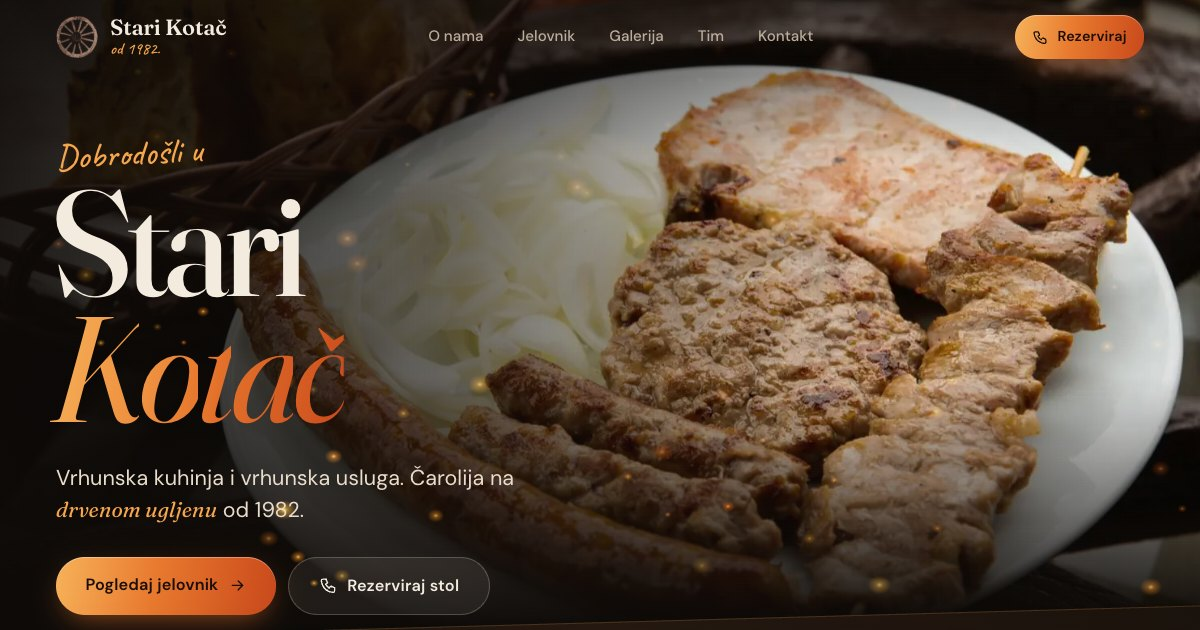
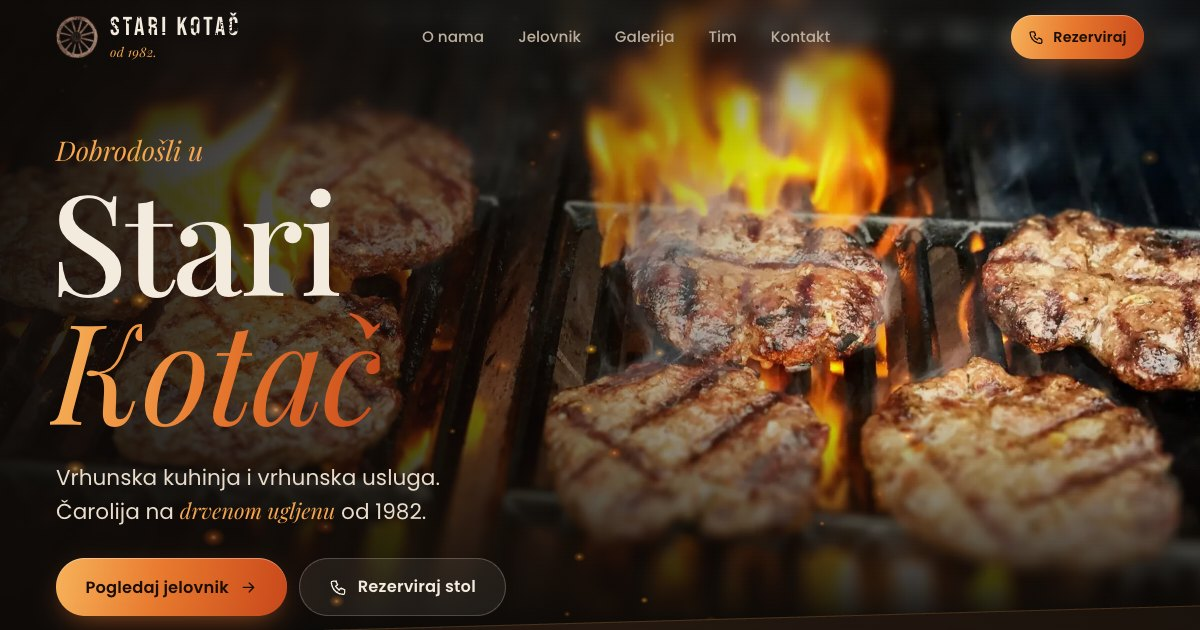
Nova pozadina uvoda (roštilj s plamenom) i fontovi kao na službenoj stranici

diff --git a/css/style.css b/css/style.css
@@ -24,9 +24,10 @@
 
   --grad-ember: linear-gradient(100deg, #f7b25a 0%, #e8792e 45%, #c9481b 100%);
 
-  --ff-display: "Fraunces", Georgia, "Times New Roman", serif;
-  --ff-body: "DM Sans", system-ui, -apple-system, "Segoe UI", sans-serif;
-  --ff-hand: "Caveat", "Segoe Script", cursive;
+  --ff-display: "Playfair Display", Georgia, "Times New Roman", serif;
+  --ff-body: "Poppins", system-ui, -apple-system, "Segoe UI", sans-serif;
+  --ff-hand: "Playfair Display", Georgia, serif;
+  --ff-logo: "Bebas Neue", "Oswald", Impact, sans-serif;
 
   --ease: cubic-bezier(.22, .61, .36, 1);
   --ease-out: cubic-bezier(.16, 1, .3, 1);
@@ -57,8 +58,8 @@ body {
   background: var(--bg);
   color: var(--text);
   font-family: var(--ff-body);
-  font-size: 17px;
-  line-height: 1.65;
+  font-size: 16px;
+  line-height: 1.7;
   -webkit-font-smoothing: antialiased;
   -moz-osx-font-smoothing: grayscale;
   text-rendering: optimizeLegibility;
@@ -83,6 +84,14 @@ em { font-style: italic; }
 }
 
 .container { width: min(100% - 2 * var(--gutter), var(--maxw)); margin-inline: auto; }
+
+/* Logo u stilu natpisa Starog Kotača: uska velika slova s istrošenom teksturom */
+.logo-type {
+  font-family: var(--ff-logo); font-weight: 400; text-transform: uppercase;
+  -webkit-mask-image: url("../img/grunge.png"); mask-image: url("../img/grunge.png");
+  -webkit-mask-size: 180px; mask-size: 180px;
+  padding-top: .16em; margin-top: -.16em;
+}
 .section { padding-block: var(--section); position: relative; }
 .section--tight { padding-block: clamp(20px, 4vw, 48px); }
 .section > .container { position: relative; z-index: 1; }
@@ -91,9 +100,9 @@ em { font-style: italic; }
 .h2 {
   font-family: var(--ff-display);
   font-weight: 500;
-  font-size: clamp(2.35rem, 6.4vw, 4.6rem);
-  line-height: 1.02;
-  letter-spacing: -.025em;
+  font-size: clamp(2.3rem, 6.2vw, 4.4rem);
+  line-height: 1.08;
+  letter-spacing: -.01em;
   font-variation-settings: "opsz" 144;
   text-wrap: balance;
 }
@@ -108,8 +117,8 @@ em { font-style: italic; }
   font-family: var(--ff-display);
   font-weight: 500;
   font-size: clamp(1.9rem, 4.2vw, 2.9rem);
-  line-height: 1.05;
-  letter-spacing: -.02em;
+  line-height: 1.1;
+  letter-spacing: -.01em;
   font-variation-settings: "opsz" 144;
 }
 .eyebrow {
@@ -238,11 +247,12 @@ em { font-style: italic; }
   filter: drop-shadow(0 0 24px rgba(228, 113, 43, .35));
 }
 .loader__name {
-  font-family: var(--ff-display); font-size: 1.9rem; font-weight: 500; letter-spacing: -.01em;
+  font-family: var(--ff-logo); font-size: 2.6rem; letter-spacing: .14em; line-height: 1; padding: .18em 0 0 .14em;
+  -webkit-mask-image: url("../img/grunge.png"); mask-image: url("../img/grunge.png"); -webkit-mask-size: 180px; mask-size: 180px;
   opacity: 0; animation: fadeUp .8s .15s var(--ease-out) forwards;
 }
 .loader__since {
-  font-family: var(--ff-hand); font-size: 1.45rem; color: var(--ember-2);
+  font-family: var(--ff-hand); font-style: italic; font-size: 1.1rem; color: var(--ember-2); margin-top: 6px;
   opacity: 0; animation: fadeUp .8s .3s var(--ease-out) forwards;
 }
 .is-loaded .loader {
@@ -292,8 +302,8 @@ em { font-style: italic; }
 .brand__wheel { width: 42px; height: 42px; flex: none; display: block; }
 .brand__wheel img { width: 100%; height: 100%; }
 .brand__text { display: flex; flex-direction: column; line-height: 1; }
-.brand__name { font-family: var(--ff-display); font-size: 1.38rem; font-weight: 600; letter-spacing: -.01em; }
-.brand__sub { font-family: var(--ff-hand); font-size: 1.05rem; color: var(--ember-2); margin-top: 3px; }
+.brand__name { font-size: 1.62rem; letter-spacing: .12em; line-height: 1; }
+.brand__sub { font-family: var(--ff-hand); font-style: italic; font-size: .82rem; color: var(--ember-2); margin-top: 4px; letter-spacing: .02em; }
 
 .nav { display: none; gap: 6px; }
 .nav a {
@@ -425,17 +435,16 @@ em { font-style: italic; }
 .hero__content { position: relative; padding-bottom: 28px; will-change: transform, opacity; }
 .hero__status { margin-bottom: 26px; }
 .hero__eyebrow {
-  font-family: var(--ff-hand); font-size: clamp(1.6rem, 5vw, 2.2rem); line-height: 1;
+  font-family: var(--ff-hand); font-style: italic; font-size: clamp(1.25rem, 3.6vw, 1.7rem); line-height: 1;
   color: var(--ember-2);
-  margin-bottom: .1em;
-  transform: rotate(-3deg); transform-origin: left;
+  margin-bottom: .35em;
 }
 .hero__title {
   font-family: var(--ff-display);
   font-weight: 500;
-  font-size: clamp(5.4rem, 26vw, 12.5rem);
-  line-height: .84;
-  letter-spacing: -.045em;
+  font-size: clamp(5rem, 24vw, 12rem);
+  line-height: .92;
+  letter-spacing: -.02em;
   font-variation-settings: "opsz" 144;
   margin-left: -.04em;
 }
@@ -510,7 +519,7 @@ em { font-style: italic; }
 @keyframes scrollDot { 0% { opacity: 0; transform: translateY(0); } 30% { opacity: 1; } 80% { opacity: 0; transform: translateY(14px); } 100% { opacity: 0; } }
 
 @media (min-width: 701px) {
-  .hero__media img { object-position: 62% 50%; }
+  .hero__media img { object-position: 50% 50%; }
   .hero__shade {
     background:
       linear-gradient(90deg, rgba(13, 10, 8, .92) 0%, rgba(13, 10, 8, .6) 38%, rgba(13, 10, 8, .05) 70%),
@@ -524,7 +533,7 @@ em { font-style: italic; }
   .hero__scroll span { display: inline; }
 }
 @media (min-width: 1100px) {
-  .hero__title { font-size: clamp(8rem, 13.5vw, 13rem); }
+  .hero__title { font-size: clamp(8rem, 12.5vw, 12rem); }
   .hero__lead { max-width: 34ch; }
 }
 
@@ -627,10 +636,9 @@ em { font-style: italic; }
 .story__text > p.lead { color: var(--text); margin-top: 1.8rem; }
 .story__text .h2 { max-width: 12ch; }
 .signature {
-  font-family: var(--ff-hand); font-size: 1.9rem !important; line-height: 1.2;
+  font-family: var(--ff-hand); font-style: italic; font-size: 1.4rem !important; line-height: 1.3;
   color: var(--ember-2) !important;
   margin-top: 1.6rem !important;
-  transform: rotate(-2deg); transform-origin: left;
 }
 .story__text .link-arrow { margin-top: 1.8rem; }
 
@@ -648,7 +656,7 @@ em { font-style: italic; }
 .stats strong {
   font-family: var(--ff-display); font-weight: 500;
   font-size: clamp(2.6rem, 7vw, 4.4rem); line-height: 1; letter-spacing: -.03em;
-  font-variant-numeric: tabular-nums;
+  font-variant-numeric: lining-nums tabular-nums;
   background: var(--grad-ember); -webkit-background-clip: text; background-clip: text; color: transparent;
 }
 .stats li > span { color: var(--muted); font-size: .92rem; line-height: 1.4; }
@@ -859,7 +867,7 @@ em { font-style: italic; }
 
 .menu__panel { padding-top: 26px; }
 .menu__panel-sub {
-  font-family: var(--ff-hand); font-size: 1.6rem; color: var(--rust); line-height: 1;
+  font-family: var(--ff-hand); font-style: italic; font-size: 1.2rem; color: var(--rust); line-height: 1.2;
   padding: 0 6px 10px;
 }
 .menu__list { display: grid; }
@@ -885,7 +893,7 @@ em { font-style: italic; }
 .dish__dots { flex: 1; min-width: 14px; border-bottom: 2px dotted rgba(106, 72, 44, .35); transform: translateY(-5px); }
 .dish__price {
   font-family: var(--ff-display); font-weight: 600; font-size: 1.14rem; white-space: nowrap;
-  color: var(--rust); font-variant-numeric: tabular-nums;
+  color: var(--rust); font-variant-numeric: lining-nums tabular-nums;
 }
 .dish__desc { color: var(--ink-2); font-size: .88rem; line-height: 1.4; margin-top: 3px; }
 .menu__badge {
@@ -1227,8 +1235,8 @@ em { font-style: italic; }
 }
 .map__card img { width: 40px; height: 40px; }
 .map__card p { flex: 1; line-height: 1.3; min-width: 0; }
-.map__card strong { display: block; font-family: var(--ff-display); font-size: 1.15rem; font-weight: 600; }
-.map__card span { font-size: .85rem; color: var(--muted); }
+.map__card strong { display: block; font-size: 1.4rem; letter-spacing: .1em; line-height: 1.1; }
+.map__card p span { font-size: .85rem; color: var(--muted); }
 
 @media (min-width: 700px) {
   .form__row { grid-template-columns: 1fr 1fr; }
@@ -1257,13 +1265,12 @@ em { font-style: italic; }
 .footer__em { font-family: var(--ff-display); font-size: 1.5rem; color: var(--text); }
 .footer__word {
   margin-top: clamp(50px, 8vw, 100px);
-  font-family: var(--ff-display); font-weight: 500; font-style: italic;
-  font-size: clamp(3rem, 16.5vw, 14rem); line-height: .95; letter-spacing: -.05em;
+  font-family: var(--ff-logo); font-weight: 400;
+  font-size: clamp(3.4rem, 19vw, 15rem); line-height: 1.05; letter-spacing: .06em; padding-top: .12em;
   white-space: nowrap; text-align: center;
-  color: transparent;
-  -webkit-text-stroke: 1px rgba(246, 166, 77, .32);
-  background: linear-gradient(180deg, rgba(246, 166, 77, .18), transparent 80%);
-  -webkit-background-clip: text; background-clip: text;
+  color: rgba(246, 166, 77, .16);
+  -webkit-mask-image: url("../img/grunge.png"); mask-image: url("../img/grunge.png");
+  -webkit-mask-size: 420px; mask-size: 420px;
   user-select: none;
 }
 .footer__eu {

diff --git a/index.html b/index.html
@@ -24,7 +24,7 @@
 
   <link rel="preconnect" href="https://fonts.googleapis.com">
   <link rel="preconnect" href="https://fonts.gstatic.com" crossorigin>
-  <link href="https://fonts.googleapis.com/css2?family=Caveat:wght@500;700&family=DM+Sans:opsz,wght@9..40,400..700&family=Fraunces:ital,opsz,wght@0,9..144,300..700;1,9..144,300..700&display=swap" rel="stylesheet">
+  <link href="https://fonts.googleapis.com/css2?family=Bebas+Neue&family=Playfair+Display:ital,wght@0,400..800;1,400..700&family=Poppins:wght@400;500;600;700&display=swap" rel="stylesheet">
   <link rel="preload" as="image" href="img/hero-m.webp" type="image/webp" media="(max-width: 700px)">
   <link rel="preload" as="image" href="img/hero.webp" type="image/webp" media="(min-width: 701px)">
   <link rel="stylesheet" href="css/style.css">
@@ -106,7 +106,7 @@
     <div class="header__inner">
       <a href="#pocetna" class="brand" aria-label="Stari Kotač — početna">
         <span class="brand__wheel" data-spin="0.25"><img src="img/kotac-sm.webp" alt="" width="160" height="159"></span>
-        <span class="brand__text"><span class="brand__name">Stari Kotač</span><span class="brand__sub">od 1982.</span></span>
+        <span class="brand__text"><span class="brand__name logo-type">Stari Kotač</span><span class="brand__sub">od 1982.</span></span>
       </a>
 
       <nav class="nav" aria-label="Glavna navigacija">
@@ -153,8 +153,8 @@
     <section class="hero" id="pocetna">
       <div class="hero__media" data-hero-media>
         <picture>
-          <source media="(max-width: 700px)" srcset="img/hero-m.webp" width="760" height="1068">
-          <img src="img/hero.webp" alt="Miješano meso s roštilja: ćevapčići, ražnjić, pljeskavica, kobasica i kotlet uz luk i lepinju" width="1600" height="1068" fetchpriority="high">
+          <source media="(max-width: 700px)" srcset="img/hero-m.webp" width="1000" height="1389">
+          <img src="img/hero.webp" alt="Pljeskavice na roštilju iznad razigranog plamena" width="1920" height="1128" fetchpriority="high">
         </picture>
       </div>
       <div class="hero__shade" aria-hidden="true"></div>
@@ -640,7 +640,7 @@
           <iframe title="Karta: Stari Kotač, Petrovaradinska 20, Zagreb" src="https://www.google.com/maps/embed?pb=!1m18!1m12!1m3!1d2781.8981092250733!2d15.904205415818572!3d45.79326897910618!2m3!1f0!2f0!3f0!3m2!1i1024!2i768!4f13.1!3m3!1m2!1s0x4765d15a86f1dccb%3A0xc609c022493afa31!2sSTARI%20KOTA%C4%8C!5e0!3m2!1shr!2shr!4v1605225467076!5m2!1shr!2shr" loading="lazy" referrerpolicy="no-referrer-when-downgrade" allowfullscreen></iframe>
           <div class="map__card">
             <img src="img/kotac-sm.webp" alt="" width="160" height="159">
-            <p><strong>Stari Kotač</strong><span>Petrovaradinska 20, Prečko</span></p>
+            <p><strong class="logo-type">Stari Kotač</strong><span>Petrovaradinska 20, Prečko</span></p>
             <a class="btn btn--sm btn--ember" href="https://goo.gl/maps/gq2mmp1dRKgQvLM98" target="_blank" rel="noopener"><svg class="i"><use href="#i-nav"/></svg><span>Upute</span></a>
           </div>
         </div>
@@ -656,7 +656,7 @@
         <div class="footer__brand">
           <a href="#pocetna" class="brand" aria-label="Stari Kotač — na vrh">
             <span class="brand__wheel" data-spin="0.25"><img src="img/kotac-sm.webp" alt="" width="160" height="159"></span>
-            <span class="brand__text"><span class="brand__name">Stari Kotač</span><span class="brand__sub">od 1982.</span></span>
+            <span class="brand__text"><span class="brand__name logo-type">Stari Kotač</span><span class="brand__sub">od 1982.</span></span>
           </a>
           <p>Okusi i mirisi tradicionalne kuhinje, pečeni na pravom drvenom ugljenu. S Vama od 1982. godine!</p>
           <div class="social">

diff --git a/README.md b/README.md
@@ -4,4 +4,6 @@ Jednostranična prezentacijska web stranica za restoran Stari Kotač (Petrovarad
 
 **Uživo:** https://kriscro99.github.io/stari-kotac/
 
-Čisti HTML, CSS i JavaScript, bez build koraka. Sadržaj i fotografije preuzeti su sa [starikotac.com](https://starikotac.com).
+Čisti HTML, CSS i JavaScript, bez build koraka. Sadržaj i fotografije preuzeti su sa [starikotac.com](https://starikotac.com), osim pozadinske fotografije u uvodu (pljeskavice na roštilju), koja je CC0 fotografija s [PxHere](https://pxhere.com/en/photo/1366505).
+
+Fontovi: Playfair Display i Poppins (isti kao na službenoj stranici) te Bebas Neue za logo.
